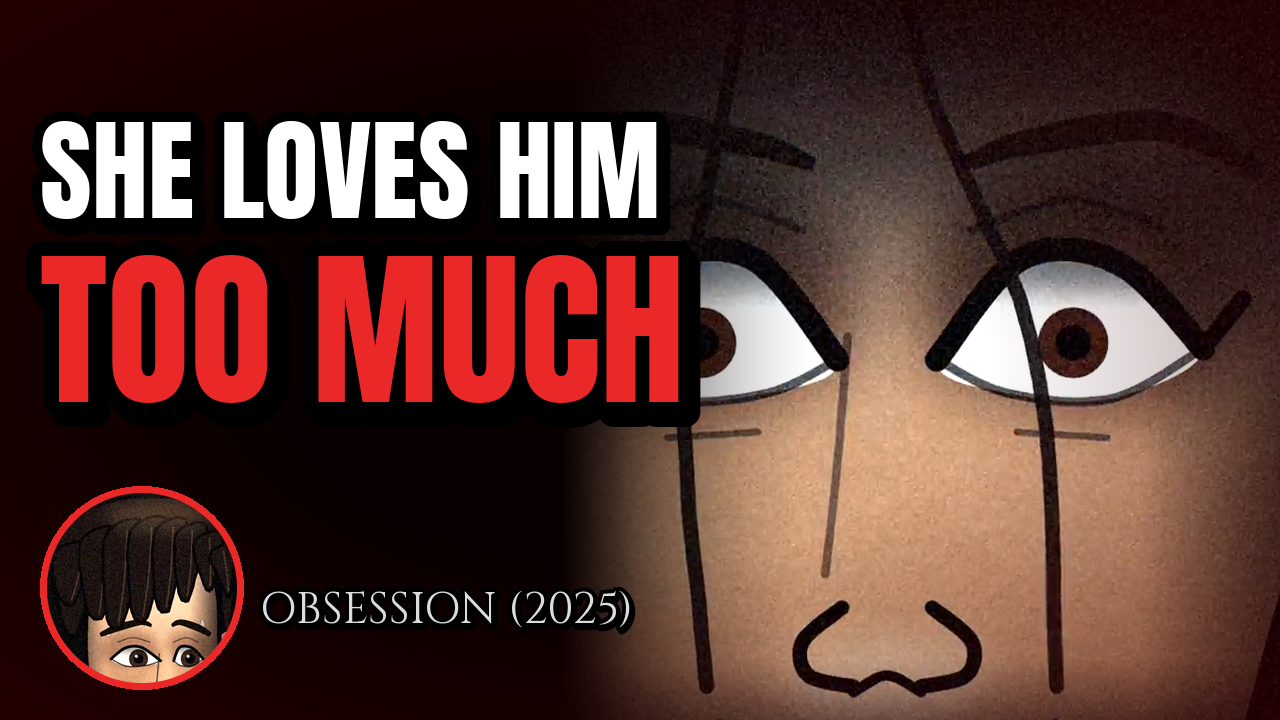
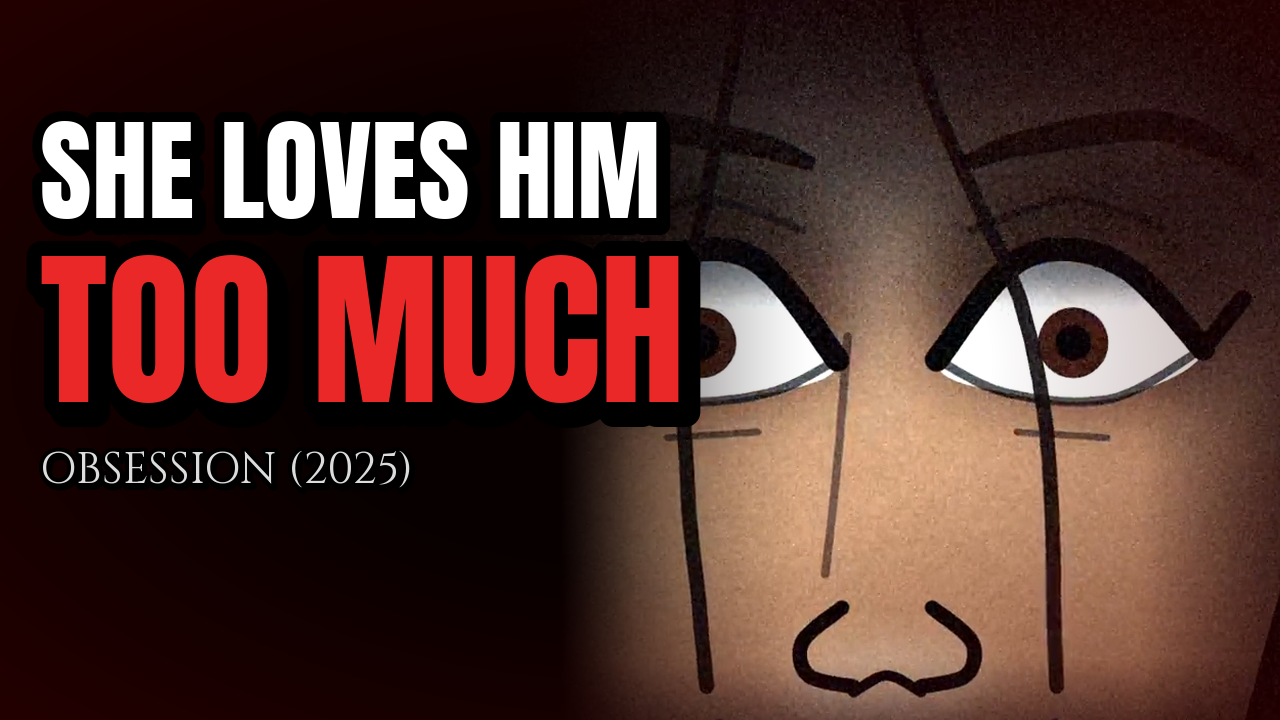
Obsession thumbnails: remove Bear inset
Claude-Session: https://claude.ai/code/session_01F1xGQBR1VrKHa654yWifGj

Changed region(s): [[0.0312, 0.6111, 0.5, 0.9778]]

diff --git a/shorts/obsession/thumbnail.py b/shorts/obsession/thumbnail.py
@@ -39,8 +39,6 @@ cv = Image.new('RGB', (1080, 1920), (0, 0, 0)); cv.paste(g, (0, 230))
 grad(cv, 1100, 1300)
 cv = red_vignette(cv)
 cv = cv.convert('RGBA')
-ins = circle_inset(bear, (250, 560, 830, 1140), 330)
-cv.alpha_composite(ins, (30, 120))
 d = ImageDraw.Draw(cv)
 text(d, (540, 1430), 'SHE LOVES HIM', 170, 'white')
 text(d, (540, 1650), 'TOO MUCH', 250, RED)
@@ -53,10 +51,8 @@ ch = Image.new('RGB', (1280, 720), (8, 0, 0)); ch.paste(face, (1280 - 1106 + 160
 m = Image.fromarray(np.tile((255 * np.clip(1 - (np.arange(1280) - 560) / 260, 0, 1) ** 1.5).astype(np.uint8)[None, :], (720, 1)))
 ch.paste(Image.new('RGB', ch.size, (8, 0, 0)), (0, 0), m)
 ch = red_vignette(ch, 0.7).convert('RGBA')
-ins = circle_inset(bear, (250, 560, 830, 1140), 190, 7)
-ch.alpha_composite(ins, (40, 720 - ins.height - 30))
 d = ImageDraw.Draw(ch)
 text(d, (40, 170), 'SHE LOVES HIM', 112, 'white', 'lm')
 text(d, (40, 330), 'TOO MUCH', 170, RED, 'lm')
-text(d, (260, 610), 'OBSESSION (2025)', 44, (220, 220, 220), 'lm', 'Cinzel[wght].ttf')
+text(d, (40, 470), "OBSESSION (2025)", 44, (220, 220, 220), 'lm', 'Cinzel[wght].ttf')
 ch.convert('RGB').save(OUT + '_16x9.png')
